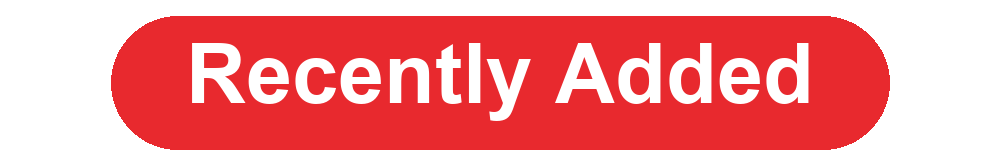
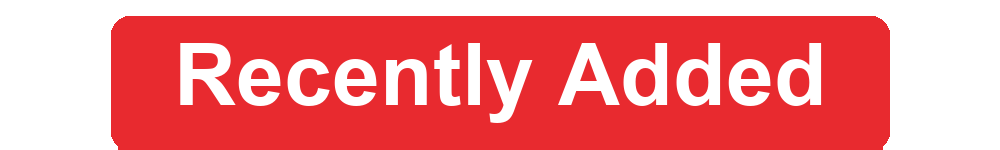
fix(overlays): match new episode and recently added badge shape
Regenerate the New Episode and Recently Added plates from the New Season shape and align season/episode/recently bottom-clip defaults to the show-poster flush edge.

diff --git a/lib/overlays/config.js b/lib/overlays/config.js
@@ -34,8 +34,8 @@ export const DEFAULT_OVERLAY_PLACEMENT = {
         maxHeight: 0.14,
         anchorX: 'center',
         anchorY: 'bottom',
-        // Same New Episode PNG as episode thumbs — keep full rounded corners.
-        bottomClip: 0,
+        // Match show-poster New Season flush edge (same badge plate shape).
+        bottomClip: 0.10,
     },
     episode: {
         x: 0.5,
@@ -44,7 +44,7 @@ export const DEFAULT_OVERLAY_PLACEMENT = {
         maxHeight: 0.18,
         anchorX: 'center',
         anchorY: 'bottom',
-        bottomClip: 0,
+        bottomClip: 0.10,
     },
     // Kometa-style defaults (1000×1500 → normalized)
     media: {
@@ -90,7 +90,7 @@ export const DEFAULT_OVERLAY_PLACEMENT = {
         width: 0.72,
         anchorX: 'center',
         anchorY: 'bottom',
-        bottomClip: 0.08,
+        bottomClip: 0.10,
     },
 };
 
@@ -315,14 +315,6 @@ export const normalizeOverlaysPlacement = (input = {}) => {
             ? 'recentlyAdded'
             : key;
         out[key] = normalizePlacementKind(raw[fallbackKey] || raw[key], DEFAULT_OVERLAY_PLACEMENT[key]);
-    }
-    // Migrate stock New Episode badge targets off the old 10% bottom clip so
-    // season posters and episode thumbs keep the PNG's rounded corners.
-    for (const key of ['season', 'episode']) {
-        const clip = Number(out[key]?.bottomClip);
-        if (Number.isFinite(clip) && Math.abs(clip - 0.1) < 0.001) {
-            out[key] = { ...out[key], bottomClip: 0 };
-        }
     }
     return out;
 };

diff --git a/client/overlays/api.ts b/client/overlays/api.ts
@@ -57,7 +57,7 @@ export const DEFAULT_OVERLAY_PLACEMENT: OverlaysPlacement = {
         maxHeight: 0.14,
         anchorX: 'center',
         anchorY: 'bottom',
-        bottomClip: 0,
+        bottomClip: 0.10,
     },
     episode: {
         x: 0.5,
@@ -66,7 +66,7 @@ export const DEFAULT_OVERLAY_PLACEMENT: OverlaysPlacement = {
         maxHeight: 0.18,
         anchorX: 'center',
         anchorY: 'bottom',
-        bottomClip: 0,
+        bottomClip: 0.10,
     },
     media: {
         x: 0.015,
@@ -110,7 +110,7 @@ export const DEFAULT_OVERLAY_PLACEMENT: OverlaysPlacement = {
         width: 0.72,
         anchorX: 'center',
         anchorY: 'bottom',
-        bottomClip: 0.08,
+        bottomClip: 0.10,
     },
 };
 

diff --git a/overlays/core.py b/overlays/core.py
@@ -365,7 +365,7 @@ DEFAULT_PLACEMENT: dict[str, dict[str, Any]] = {
         "maxHeight": 0.14,
         "anchorX": "center",
         "anchorY": "bottom",
-        "bottomClip": 0.0,
+        "bottomClip": 0.10,
     },
     "episode": {
         "x": 0.5,
@@ -374,7 +374,7 @@ DEFAULT_PLACEMENT: dict[str, dict[str, Any]] = {
         "maxHeight": 0.18,
         "anchorX": "center",
         "anchorY": "bottom",
-        "bottomClip": 0.0,
+        "bottomClip": 0.10,
     },
     "media": {
         "x": 0.015,
@@ -418,7 +418,7 @@ DEFAULT_PLACEMENT: dict[str, dict[str, Any]] = {
         "width": 0.72,
         "anchorX": "center",
         "anchorY": "bottom",
-        "bottomClip": 0.08,
+        "bottomClip": 0.10,
     },
 }
 

diff --git a/overlays/modes_extra.py b/overlays/modes_extra.py
@@ -207,7 +207,7 @@ BOTTOM_PLACEMENT = {
     "width": 0.72,
     "anchorX": "center",
     "anchorY": "bottom",
-    "bottomClip": 0.08,
+    "bottomClip": 0.10,
 }
 
 
